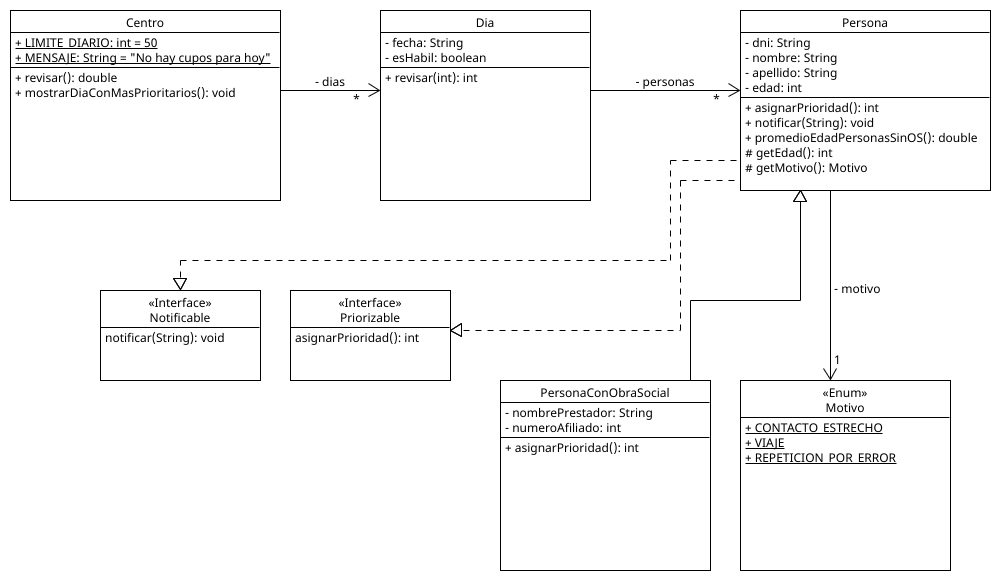
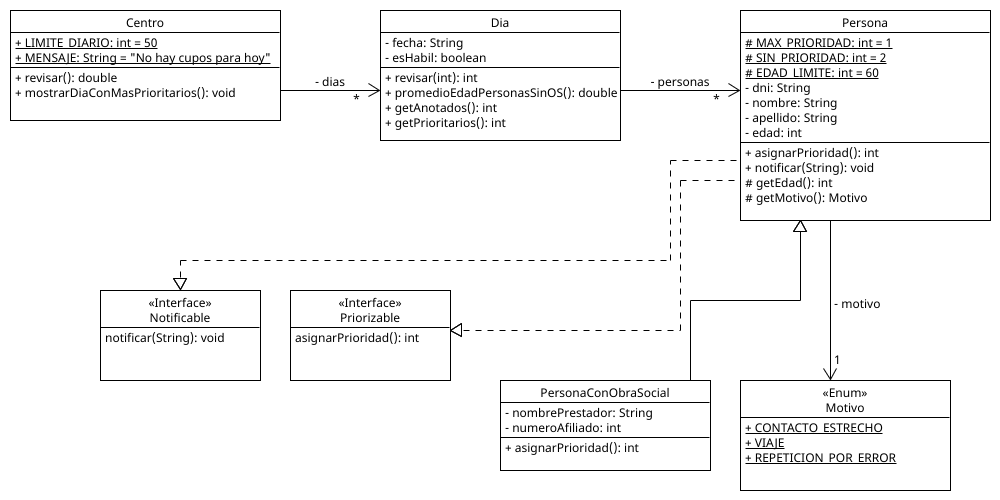
Finalizado y testeado el ejercicio12

diff --git a/TrabajoPractico3/src/ar/edu/ort/ejercicio12/Dia.java b/TrabajoPractico3/src/ar/edu/ort/ejercicio12/Dia.java
@@ -7,11 +7,58 @@ public class Dia {
     private boolean esHabil;
     public ArrayList<Persona> personas;
 
-    public int revisar(int) {
+    public Dia(String fecha) {
+        this.fecha = fecha;
+        personas = new ArrayList<>();
+    }
 
+    public int revisar(int cupo, String mensaje) {
+        int cancelados = 0;
+        if (personas.size() > cupo) {
+            cancelados = personas.size() - cupo;
+            for (int i = cupo; i < personas.size(); i++) {
+                personas.get(i).notificar(mensaje);
+            }
+        }
+        return cancelados;
     }
 
     public int getAnotados() {
         return personas.size();
+    }
+
+    public int getPrioritarios() {
+        int i = 0;
+        boolean recorriTodosLosPrioritarios = false;
+        while (i < personas.size() && !recorriTodosLosPrioritarios) {
+            if (personas.get(i).asignarPrioridad() != 1) {
+                recorriTodosLosPrioritarios = true;
+            } else {
+                i++;
+            }
+        }
+        return i;
+    }
+    public double promedioEdadPersonasSinOS() {
+        int acumEdades = 0;
+        int contadorPersonas = 0;
+        for (Persona p :
+                personas) {
+            acumEdades += p.getEdad();
+            contadorPersonas++;
+        }
+        return contadorPersonas != 0 ? acumEdades * 1.0 / contadorPersonas : 0;
+    }
+
+    // Para testear
+    public void agregarPersona(Persona p) {
+        personas.add(p);
+    }
+
+    @Override
+    public String toString() {
+        return "Dia{" +
+                "fecha='" + fecha + '\'' +
+                '}';
     }
 }

diff --git a/TrabajoPractico3/src/ar/edu/ort/ejercicio12/Principal.java b/TrabajoPractico3/src/ar/edu/ort/ejercicio12/Principal.java
@@ -1,0 +1,28 @@
+package ar.edu.ort.ejercicio12;
+// Testeado con exito en 2022-09-14
+public class Principal {
+    public static void main(String[] args) {
+        Centro c = new Centro();
+        Dia d1 = new Dia("2022-09-12");
+        Dia d2 = new Dia("2022-09-13");
+        Dia d3 = new Dia("2022-09-14");
+        d1.agregarPersona(new Persona("Mariano", 39, Motivo.CONTACTO_ESTRECHO));
+        d1.agregarPersona(new Persona("Ana", 60, Motivo.VIAJE));
+        d1.agregarPersona(new PersonaConObraSocial("Luciano", 61, Motivo.VIAJE));
+        d1.agregarPersona(new PersonaConObraSocial("Carlos", 49, Motivo.CONTACTO_ESTRECHO));
+        d2.agregarPersona(new PersonaConObraSocial("Carla", 49, Motivo.CONTACTO_ESTRECHO));
+        d2.agregarPersona(new Persona("Marta", 39, Motivo.VIAJE));
+        d2.agregarPersona(new Persona("Isabel", 59, Motivo.REPETICION_POR_ERROR));
+        d2.agregarPersona(new PersonaConObraSocial("Gaston", 57, Motivo.VIAJE));
+        d3.agregarPersona(new Persona("Fermin", 79, Motivo.VIAJE));
+        d3.agregarPersona(new PersonaConObraSocial("Marcela", 99, Motivo.VIAJE));
+        d3.agregarPersona(new PersonaConObraSocial("Anderson", 57, Motivo.CONTACTO_ESTRECHO));
+        d3.agregarPersona(new Persona("Raul", 59, Motivo.REPETICION_POR_ERROR));
+        c.agregarDia(d1);
+        c.agregarDia(d2);
+        c.agregarDia(d3);
+        System.out.printf("Hubo %.2f%% cancelaciones.\n", c.revisar());
+        c.mostrarDiaConMasPrioritarios();
+        System.out.println("El promedio de edad sin OS en el dia 1 es: " + d1.promedioEdadPersonasSinOS());
+    }
+}

diff --git a/TrabajoPractico3/src/ar/edu/ort/ejercicio12/Centro.java b/TrabajoPractico3/src/ar/edu/ort/ejercicio12/Centro.java
@@ -3,9 +3,14 @@ package ar.edu.ort.ejercicio12;
 import java.util.ArrayList;
 
 public class Centro {
-    public static final int LIMITE_DIARIO = 50;
+    public static final int LIMITE_DIARIO = 3;  // Modificada esta constante para testear.
+                                                // Originalmente, era 50.
     public static final String MENSAJE = "No hay cupos para hoy";
     private ArrayList<Dia> dias;
+
+    public Centro() {
+        dias = new ArrayList<>();
+    }
 
     public double revisar() {
         int anotados = 0;
@@ -13,12 +18,27 @@ public class Centro {
         for (Dia d:
         dias) {
             anotados += d.getAnotados();
-            cancelados += d.revisar(LIMITE_DIARIO);
+            cancelados += d.revisar(LIMITE_DIARIO, MENSAJE);
         }
-
+        return anotados == 0 ? 0 : cancelados * 100.0 / anotados;
     }
 
     public void mostrarDiaConMasPrioritarios() {
+        int maxPrioritarios = 0;
+        Dia diaConMasPrioritarios = null;
+        for (Dia d :
+                dias) {
+            if (d.getPrioritarios() > maxPrioritarios) {
+                maxPrioritarios = d.getPrioritarios();
+                diaConMasPrioritarios = d;
+            }
+        }
+        System.out.println("El dia con mas prioritarios es el " + diaConMasPrioritarios + ", " +
+                "con " + maxPrioritarios + " prioritarios.");
+    }
 
+    // Para testear
+    public void agregarDia(Dia d) {
+        dias.add(d);
     }
 }

diff --git a/TrabajoPractico3/src/ar/edu/ort/ejercicio12/Persona.java b/TrabajoPractico3/src/ar/edu/ort/ejercicio12/Persona.java
@@ -1,24 +1,32 @@
 package ar.edu.ort.ejercicio12;
 
 public class Persona implements Priorizable, Notificable {
+    protected static final int MAX_PRIORIDAD = 1;
+    protected static final int SIN_PRIORIDAD = 2;
+    protected static final int EDAD_LIMITE = 60;
     private String dni;
     private String nombre;
     private String apellido;
     private int edad;
     private Motivo motivo;
 
+    /*
+    Solo lo necesario para testear.
+    */
+    public Persona(String nombre, int edad, Motivo motivo) {
+        this.nombre = nombre;
+        this.edad = edad;
+        this.motivo = motivo;
+    }
+
     @Override
     public int asignarPrioridad() {
-
+        return MAX_PRIORIDAD;
     }
 
     @Override
     public void notificar(String mensaje) {
-
-    }
-
-    public double promedioEdadPersonasSinOS() {
-
+        System.out.println(nombre + " " + apellido + " ha sido notificado.");
     }
 
     protected int getEdad() {

diff --git a/TrabajoPractico3/src/ar/edu/ort/ejercicio12/PersonaConObraSocial.java b/TrabajoPractico3/src/ar/edu/ort/ejercicio12/PersonaConObraSocial.java
@@ -4,8 +4,19 @@ public class PersonaConObraSocial extends Persona {
     private String nombrePrestador;
     private int numeroAfiliado;
 
+    /*
+    Solo lo necesario para testear.
+     */
+    public PersonaConObraSocial(String nombre, int edad, Motivo motivo) {
+        super(nombre, edad, motivo);
+    }
+
     @Override
     public int asignarPrioridad() {
-
+        int prioridad = SIN_PRIORIDAD;
+        if (getMotivo() == Motivo.CONTACTO_ESTRECHO || getEdad() >= EDAD_LIMITE) {
+            prioridad = MAX_PRIORIDAD;
+        }
+        return prioridad;
     }
 }
